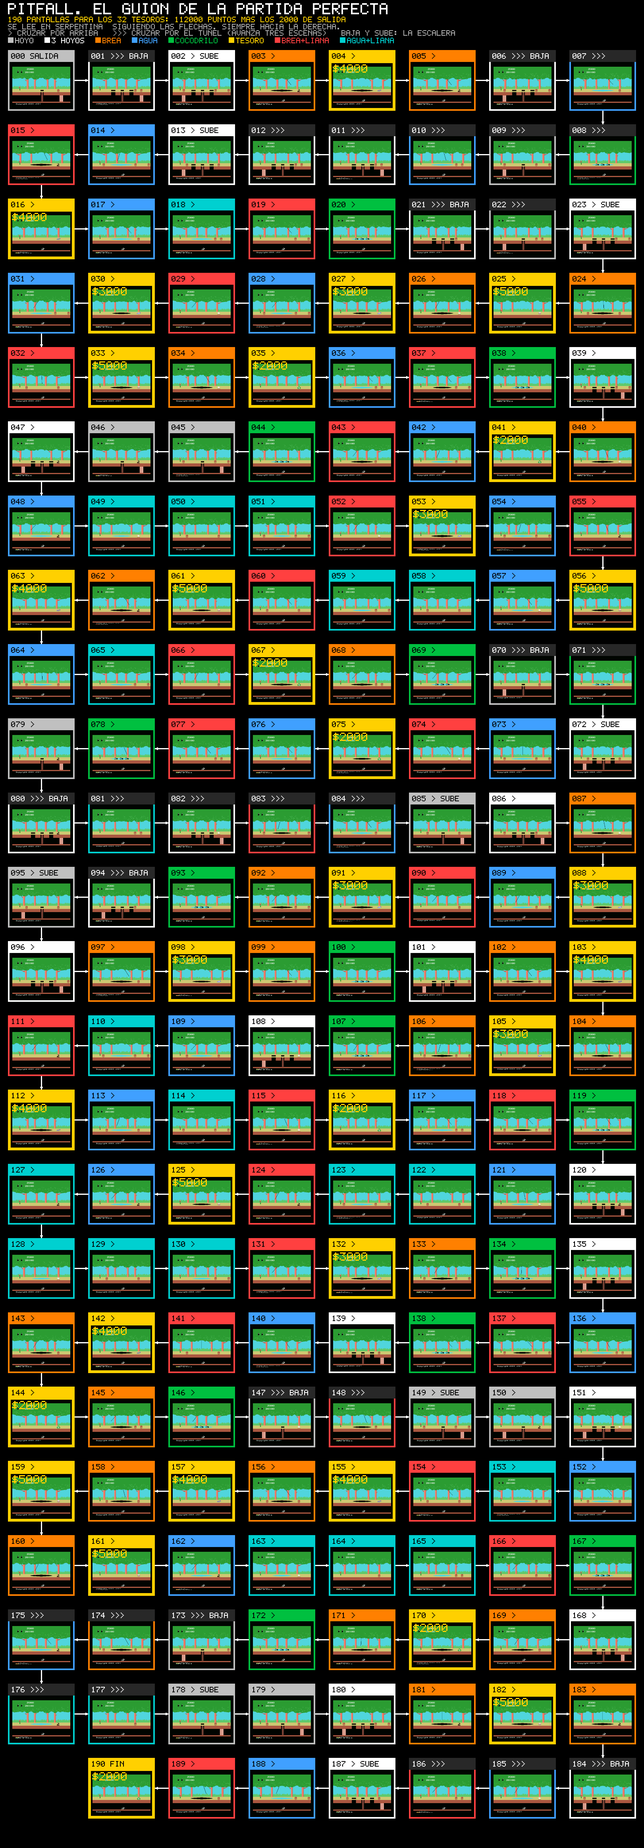
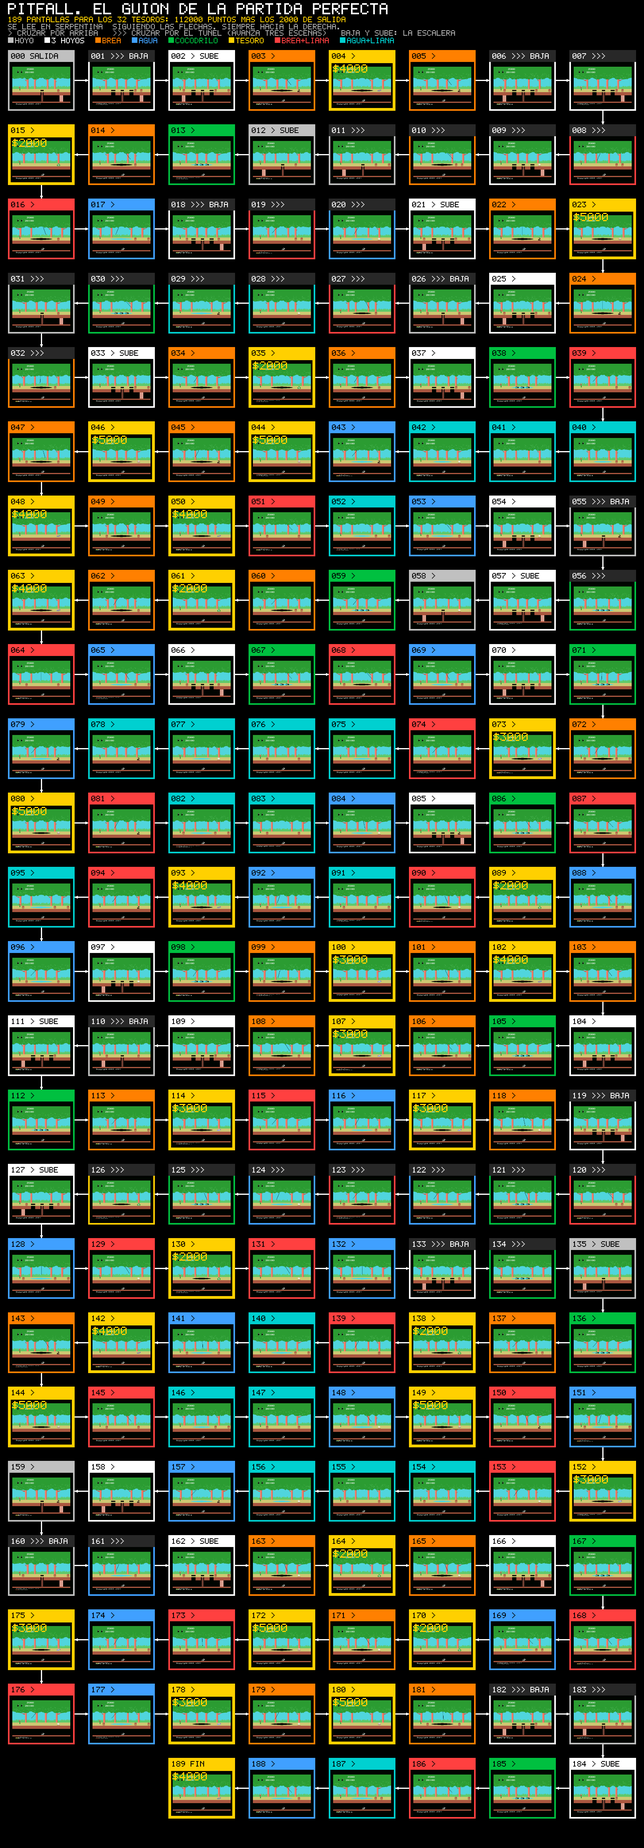
La ruta optima no era la optima: son 189 pantallas, con media vuelta
Lo pregunto el usuario -"seguro que hay que recorrer 190 como minimo?"- y la
respuesta es que casi: el minimo del modelo son 189, y la ruta publicada como
optima no lo era. El calculo de siempre recorria el anillo entero en un
sentido; lo que no probaba es DONDE dar la media vuelta, que en un anillo
equivale a elegir que hueco entre tesoros no se cruza nunca. Enumerando las 33
particiones -derecha hasta el tesoro i, vuelta, y el resto por la izquierda-
gana la del primer tesoro: 13 cruces a la derecha y 176 a la izquierda, 189 en
total contra los 190 de ir siempre al mismo lado.

Y la pregunta de fondo tiene respuesta con cota: no, no hay atajo milagroso.
Aunque el tunel avanza tres escenas por cruce, la cota teorica de ir TODO por
el tunel serian ~77 pantallas, y no se puede: hay que salir a la superficie en
los 32 tesoros, repartidos por todo el anillo, y las escaleras solo estan en
63 escenas. Eso empuja el minimo a 189, que a la velocidad del cartucho son
13,9 minutos de los 20:00 del reloj: el juego esta disenado para comerse el
reloj casi entero.

ruta_optima.py enumera ahora las particiones (y la comparacion sin subterraneo
usa tambien su mejor particion: 238, ahorro del 21 %). Regenerados el TSV, el
diagrama del guion y las cifras en las seis paginas que las publicaban, en los
dos idiomas; fuera la frase de los "cuatro retrocesos", que era de la ruta
vieja. 17 tests en verde, 124 enlaces sin roto.

Changed region(s): [[0.0, 0.0312, 0.9864, 0.997], [0.4007, 0.9658, 0.4316, 0.997]]

diff --git a/docs/index.html b/docs/index.html
@@ -88,13 +88,13 @@ audio{display:block;width:100%;max-width:640px;margin:.75rem 0 1.5rem}
   <p class="ficha">Activision · <b>1984</b> · A <b>16 KB</b> cartridge · MSX1 · <b>page 2</b> · Dump <b>4d899d62…</b></p>
 </header>
 <p class="ficha" style="border:1px solid var(--oro);padding:.8em 1em;margin:1.5em 0">
-<b>The optimal route is a calculation, not a recorded game.</b> The 190 screens of the walkthrough come from running Dijkstra over the world the cartridge generates, and they are counted in SCREENS CROSSED, not in time: running, jumping, dodging and the 20:00 clock are not in that count, and taking a ladder is counted as free. Everything else —the listing, the numbers and the map— comes from the binary and is reproducible with <code>make</code>.</p>
+<b>The optimal route is a calculation, not a recorded game.</b> The 189 screens of the walkthrough come from running Dijkstra over the world the cartridge generates, and they are counted in SCREENS CROSSED, not in time: running, jumping, dodging and the 20:00 clock are not in that count, and taking a ladder is counted as free. Everything else —the listing, the numbers and the map— comes from the binary and is reproducible with <code>make</code>.</p>
 <nav><a href="#numbers">The numbers</a><a href="#findings">What turned up</a><a href="#screens">The world</a><a href="GETTING-STARTED.html">Getting started</a><a href="THE-GAME.html">The game</a><a href="THE-CARTRIDGE.html">The cartridge</a><a href="THE-CODE.html">The code</a><a href="FINDINGS.html">Findings</a><a href="OPEN-QUESTIONS.html">Open questions</a><a href="es/" style="margin-left:auto;color:var(--oro)">En castellano</a></nav>
 <section id="numbers">
   <h2>The game in numbers</h2>
   <div class="cifras"><div class="cifra"><b>100%</b><span>of the binary explained</span></div><div class="cifra"><b>255</b><span>scenes in the world</span></div><div class="cifra"><b>32</b><span>treasures hidden</span></div><div class="cifra"><b>9,467</b><span>bytes of code</span></div><div class="cifra"><b>6,917</b><span>bytes of data</span></div><div class="cifra"><b>0</b><span>bytes unidentified</span></div></div>
 </section>
-<section id="findings"><h2>What turned up when we took it apart</h2><div class="hall"><h3>The world isn't stored, it's generated</h3><p>There is no map in the cartridge. The 255 screens come out of a single byte, 0xE222, a feedback shift register: the seed is 0xC4 and the feedback taps are bits 7, 5, 4 and 3. Leaving to the right, 0xB68F steps it forward; leaving to the left, 0xB69F —its exact inverse— steps it back.</p><p>Those eight bits carry the three decisions of every screen: two bits pick the scenery, three the kind of scene and three the variant. The ring is maximal —255 states, with 0x00 left outside it and used by the title screen— and the simulation agrees with the emulator on all 255.</p></div><div class="hall"><h3>The 32 treasures are exactly the 32 scenes of one kind</h3><p>Type 5 is the only one dispatched through table 0xAEA4, which holds four routines repeated two by two. Since the eight variants share out four scenes each, every class of treasure comes up eight times: 8+8+8+8 = 32, and not one more.</p><p>Each routine writes what its own is worth into 0xE188 —2, 3, 4 or 5, that is thousands of points— so the whole world holds 8·(2000+3000+4000+5000) = 112000 points. With the 2000 the score starts at, <b>114000: the ceiling of the game</b>.</p></div><div class="hall"><h3>A treasure already taken has its return address eaten</h3><p>What has been picked up is remembered in 32 bits, 0xE21D-0xE220: one byte per class of treasure and one bit per treasure. Before drawing one, 0xAAFF rotates its bit out into the carry.</p><p>And if it was set, there's no branch and no flag: it does <code>pop hl</code> and <code>ret</code>. It swallows its caller's return address, so the routine that was going to draw the treasure never runs at all. Saving one jump costs a lot to read and nothing to run.</p></div><div class="hall"><h3>The tunnel crosses the world three times as fast</h3><p>Changing screen is 0x9CBE's job: when the player's X reaches the right-hand edge it puts him back on the other side and steps the screen register on. But it steps on <b>one place or three</b> depending on bit 0 of 0xE2EB, which is what says whether you're up on the surface or down in the tunnel. The left-hand routine is symmetrical.</p><p>That's why the shortcut is worth so much, and why the route that collects all 32 treasures goes underground whenever it can: 190 screens using the tunnel against 238 never going down, 20 % fewer. You can only go down by a ladder, and the ladders are measured over the 255 captures: they're the 63 scenes of types 0 and 1, and not one more.</p></div><div class="hall"><h3>The vine isn't drawn anywhere</h3><p>There isn't a single picture of a vine in the cartridge. On every step, 0xA471 traces a sixteen-point straight line onto a bitmap at 0xE18A and sends it to video memory as a sprite pattern. The slope comes from the table at 0xA61A, indexed by the phase of the swing, which runs up and down between 1 and 0x20.</p></div><div class="hall"><h3>There isn't one written word in this cartridge</h3><p>Not a string, not an alphabet, not a hidden message. The font the game loads is ten digits, the colon and a blank: enough for the score and the clock, and not enough for a single letter.</p><p>Everything that looks like text —the title banner and the <b>Copyright 1982, 1984</b> at the foot— is drawing, cut into tiles, one per position. That's why searching the ROM for strings returns nothing readable, and why that one line at the foot, with its two dates, is the only thing the cartridge signs.</p></div></section>
+<section id="findings"><h2>What turned up when we took it apart</h2><div class="hall"><h3>The world isn't stored, it's generated</h3><p>There is no map in the cartridge. The 255 screens come out of a single byte, 0xE222, a feedback shift register: the seed is 0xC4 and the feedback taps are bits 7, 5, 4 and 3. Leaving to the right, 0xB68F steps it forward; leaving to the left, 0xB69F —its exact inverse— steps it back.</p><p>Those eight bits carry the three decisions of every screen: two bits pick the scenery, three the kind of scene and three the variant. The ring is maximal —255 states, with 0x00 left outside it and used by the title screen— and the simulation agrees with the emulator on all 255.</p></div><div class="hall"><h3>The 32 treasures are exactly the 32 scenes of one kind</h3><p>Type 5 is the only one dispatched through table 0xAEA4, which holds four routines repeated two by two. Since the eight variants share out four scenes each, every class of treasure comes up eight times: 8+8+8+8 = 32, and not one more.</p><p>Each routine writes what its own is worth into 0xE188 —2, 3, 4 or 5, that is thousands of points— so the whole world holds 8·(2000+3000+4000+5000) = 112000 points. With the 2000 the score starts at, <b>114000: the ceiling of the game</b>.</p></div><div class="hall"><h3>A treasure already taken has its return address eaten</h3><p>What has been picked up is remembered in 32 bits, 0xE21D-0xE220: one byte per class of treasure and one bit per treasure. Before drawing one, 0xAAFF rotates its bit out into the carry.</p><p>And if it was set, there's no branch and no flag: it does <code>pop hl</code> and <code>ret</code>. It swallows its caller's return address, so the routine that was going to draw the treasure never runs at all. Saving one jump costs a lot to read and nothing to run.</p></div><div class="hall"><h3>The tunnel crosses the world three times as fast</h3><p>Changing screen is 0x9CBE's job: when the player's X reaches the right-hand edge it puts him back on the other side and steps the screen register on. But it steps on <b>one place or three</b> depending on bit 0 of 0xE2EB, which is what says whether you're up on the surface or down in the tunnel. The left-hand routine is symmetrical.</p><p>That's why the shortcut is worth so much, and why the route that collects all 32 treasures goes underground whenever it can: 189 screens using the tunnel against 238 never going down, 21 % fewer. You can only go down by a ladder, and the ladders are measured over the 255 captures: they're the 63 scenes of types 0 and 1, and not one more.</p></div><div class="hall"><h3>The vine isn't drawn anywhere</h3><p>There isn't a single picture of a vine in the cartridge. On every step, 0xA471 traces a sixteen-point straight line onto a bitmap at 0xE18A and sends it to video memory as a sprite pattern. The slope comes from the table at 0xA61A, indexed by the phase of the swing, which runs up and down between 1 and 0x20.</p></div><div class="hall"><h3>There isn't one written word in this cartridge</h3><p>Not a string, not an alphabet, not a hidden message. The font the game loads is ten digits, the colon and a blank: enough for the score and the clock, and not enough for a single letter.</p><p>Everything that looks like text —the title banner and the <b>Copyright 1982, 1984</b> at the foot— is drawing, cut into tiles, one per position. That's why searching the ROM for strings returns nothing readable, and why that one line at the foot, with its two dates, is the only thing the cartridge signs.</p></div></section>
 <section id="screens">
   <h2>The eight kinds of scene</h2>
   <p class="n">These eight are screen captures, but not of anyone playing: the emulator is told what to put in the screen register and asked for a photograph of each scene, so all 255 come out one after another with no repeats. Here is one of each kind, picked by crossing the register value with the table that comes out of the cartridge. Get that reading wrong and what you would see under each caption would be something else.</p>

diff --git a/docs/es/index.html b/docs/es/index.html
@@ -88,13 +88,13 @@ audio{display:block;width:100%;max-width:640px;margin:.75rem 0 1.5rem}
   <p class="ficha">Activision · <b>1984</b> · Cartucho de <b>16 KB</b> · MSX1 · <b>página 2</b> · Volcado <b>4d899d62…</b></p>
 </header>
 <p class="ficha" style="border:1px solid var(--oro);padding:.8em 1em;margin:1.5em 0">
-<b>La ruta óptima es un cálculo, no una partida grabada.</b> Las 190 pantallas del guion salen de aplicar Dijkstra sobre el mundo que genera el cartucho, y se cuentan en PANTALLAS CRUZADAS, no en tiempo: correr, saltar, esquivar y el reloj de 20:00 no entran en esa cuenta, y bajar una escalera se cuenta gratis. Todo lo demás —el listado, las cifras y el mapa— sale del binario y se reproduce con <code>make</code>.</p>
+<b>La ruta óptima es un cálculo, no una partida grabada.</b> Las 189 pantallas del guion salen de aplicar Dijkstra sobre el mundo que genera el cartucho, y se cuentan en PANTALLAS CRUZADAS, no en tiempo: correr, saltar, esquivar y el reloj de 20:00 no entran en esa cuenta, y bajar una escalera se cuenta gratis. Todo lo demás —el listado, las cifras y el mapa— sale del binario y se reproduce con <code>make</code>.</p>
 <nav><a href="#numbers">Las cifras</a><a href="#findings">Hallazgos</a><a href="#screens">El mundo</a><a href="EMPEZAR.html">Empezar</a><a href="EL-JUEGO.html">El juego</a><a href="EL-CARTUCHO.html">El cartucho</a><a href="EL-CODIGO.html">El código</a><a href="HALLAZGOS.html">Hallazgos</a><a href="PREGUNTAS-ABIERTAS.html">Preguntas abiertas</a><a href="../" style="margin-left:auto;color:var(--oro)">In English</a></nav>
 <section id="numbers">
   <h2>El juego en cifras</h2>
   <div class="cifras"><div class="cifra"><b>100 %</b><span>del binario explicado</span></div><div class="cifra"><b>255</b><span>escenas del mundo</span></div><div class="cifra"><b>32</b><span>tesoros escondidos</span></div><div class="cifra"><b>9.467</b><span>bytes de código</span></div><div class="cifra"><b>6.917</b><span>bytes de datos</span></div><div class="cifra"><b>0</b><span>bytes sin identificar</span></div></div>
 </section>
-<section id="findings"><h2>Lo que apareció al desmontarlo</h2><div class="hall"><h3>El mundo no está guardado: se genera</h3><p>No hay un mapa en el cartucho. Las 255 pantallas salen de un solo byte, 0xE222, que es un registro de desplazamiento realimentado: la semilla es 0xC4 y la realimentación, los bits 7, 5, 4 y 3. Al salir por la derecha lo avanza 0xB68F y al salir por la izquierda lo retrocede 0xB69F, que es su inversa exacta.</p><p>De esos ocho bits salen las tres decisiones de cada pantalla: dos bits eligen el decorado, tres el tipo de escena y tres la variante. El anillo es máximo —255 estados, el 0x00 se queda fuera y es el que usa la pantalla del título— y la simulación coincide con el emulador en las 255.</p></div><div class="hall"><h3>Los 32 tesoros son exactamente las 32 escenas de un tipo</h3><p>El tipo 5 es el único que despacha por la tabla 0xAEA4, que lleva cuatro rutinas repetidas de dos en dos. Como las ocho variantes se reparten a cuatro escenas cada una, sale un tesoro de cada clase ocho veces: 8+8+8+8 = 32, y ni uno más.</p><p>Cada rutina escribe en 0xE188 lo que vale el suyo —2, 3, 4 o 5, o sea miles de puntos—, así que el mundo entero guarda 8·(2000+3000+4000+5000) = 112000 puntos. Con los 2000 con los que arranca el marcador, <b>114000: el techo del juego</b>.</p></div><div class="hall"><h3>Al tesoro ya cogido se le come la dirección de retorno</h3><p>Lo recogido se recuerda en 32 bits, 0xE21D-0xE220: un byte por clase de tesoro y un bit por tesoro. Antes de pintar uno, 0xAAFF rota su bit hasta el acarreo.</p><p>Y si estaba a uno no salta ni pone una bandera: hace <code>pop hl</code> y <code>ret</code>. Se traga la dirección de retorno del que le llamó, así que la rutina que pintaba el tesoro no llega a ejecutarse nunca. Ahorrarse un salto sale caro de leer y barato de correr.</p></div><div class="hall"><h3>El subterráneo recorre el mundo al triple</h3><p>El cambio de pantalla lo hace 0x9CBE: cuando la X del jugador llega al borde derecho lo reposiciona al otro lado y avanza el registro de pantalla. Pero avanza <b>uno o tres pasos</b> según el bit 0 de 0xE2EB, que es el que dice si se va por arriba o por el túnel. La rutina de la izquierda es simétrica.</p><p>Por eso el atajo vale oro, y por eso la ruta que se lleva los 32 tesoros baja siempre que puede: 190 pantallas usando el túnel contra 238 sin bajar nunca, un 20 % menos. Bajar sólo se puede por una escalera, y las escaleras están medidas sobre las 255 capturas: son las 63 escenas de tipo 0 y 1, y ni una más.</p></div><div class="hall"><h3>La liana no está dibujada en ninguna parte</h3><p>No hay un solo dibujo de liana en el cartucho. En cada paso, 0xA471 traza una recta de dieciséis puntos sobre un mapa de bits en 0xE18A y la manda a la memoria de vídeo como patrón de sprite. La inclinación sale de la tabla de 0xA61A, indexada por la fase del balanceo, que va y viene entre 1 y 0x20.</p></div><div class="hall"><h3>En este cartucho no hay ni una palabra escrita</h3><p>Ni una cadena, ni un alfabeto, ni un mensaje escondido. La fuente que carga el juego son diez dígitos, los dos puntos y el blanco: con eso se escriben el marcador y el reloj, y no da para una letra.</p><p>Todo lo que parece texto —el rótulo de la presentación y el <b>Copyright 1982, 1984</b> del pie— son dibujos partidos en casillas, una por posición. Por eso buscar cadenas en la ROM no devuelve nada legible, y por eso esa línea del pie, con sus dos fechas, es lo único que el cartucho firma.</p></div></section>
+<section id="findings"><h2>Lo que apareció al desmontarlo</h2><div class="hall"><h3>El mundo no está guardado: se genera</h3><p>No hay un mapa en el cartucho. Las 255 pantallas salen de un solo byte, 0xE222, que es un registro de desplazamiento realimentado: la semilla es 0xC4 y la realimentación, los bits 7, 5, 4 y 3. Al salir por la derecha lo avanza 0xB68F y al salir por la izquierda lo retrocede 0xB69F, que es su inversa exacta.</p><p>De esos ocho bits salen las tres decisiones de cada pantalla: dos bits eligen el decorado, tres el tipo de escena y tres la variante. El anillo es máximo —255 estados, el 0x00 se queda fuera y es el que usa la pantalla del título— y la simulación coincide con el emulador en las 255.</p></div><div class="hall"><h3>Los 32 tesoros son exactamente las 32 escenas de un tipo</h3><p>El tipo 5 es el único que despacha por la tabla 0xAEA4, que lleva cuatro rutinas repetidas de dos en dos. Como las ocho variantes se reparten a cuatro escenas cada una, sale un tesoro de cada clase ocho veces: 8+8+8+8 = 32, y ni uno más.</p><p>Cada rutina escribe en 0xE188 lo que vale el suyo —2, 3, 4 o 5, o sea miles de puntos—, así que el mundo entero guarda 8·(2000+3000+4000+5000) = 112000 puntos. Con los 2000 con los que arranca el marcador, <b>114000: el techo del juego</b>.</p></div><div class="hall"><h3>Al tesoro ya cogido se le come la dirección de retorno</h3><p>Lo recogido se recuerda en 32 bits, 0xE21D-0xE220: un byte por clase de tesoro y un bit por tesoro. Antes de pintar uno, 0xAAFF rota su bit hasta el acarreo.</p><p>Y si estaba a uno no salta ni pone una bandera: hace <code>pop hl</code> y <code>ret</code>. Se traga la dirección de retorno del que le llamó, así que la rutina que pintaba el tesoro no llega a ejecutarse nunca. Ahorrarse un salto sale caro de leer y barato de correr.</p></div><div class="hall"><h3>El subterráneo recorre el mundo al triple</h3><p>El cambio de pantalla lo hace 0x9CBE: cuando la X del jugador llega al borde derecho lo reposiciona al otro lado y avanza el registro de pantalla. Pero avanza <b>uno o tres pasos</b> según el bit 0 de 0xE2EB, que es el que dice si se va por arriba o por el túnel. La rutina de la izquierda es simétrica.</p><p>Por eso el atajo vale oro, y por eso la ruta que se lleva los 32 tesoros baja siempre que puede: 189 pantallas usando el túnel contra 238 sin bajar nunca, un 21 % menos. Bajar sólo se puede por una escalera, y las escaleras están medidas sobre las 255 capturas: son las 63 escenas de tipo 0 y 1, y ni una más.</p></div><div class="hall"><h3>La liana no está dibujada en ninguna parte</h3><p>No hay un solo dibujo de liana en el cartucho. En cada paso, 0xA471 traza una recta de dieciséis puntos sobre un mapa de bits en 0xE18A y la manda a la memoria de vídeo como patrón de sprite. La inclinación sale de la tabla de 0xA61A, indexada por la fase del balanceo, que va y viene entre 1 y 0x20.</p></div><div class="hall"><h3>En este cartucho no hay ni una palabra escrita</h3><p>Ni una cadena, ni un alfabeto, ni un mensaje escondido. La fuente que carga el juego son diez dígitos, los dos puntos y el blanco: con eso se escriben el marcador y el reloj, y no da para una letra.</p><p>Todo lo que parece texto —el rótulo de la presentación y el <b>Copyright 1982, 1984</b> del pie— son dibujos partidos en casillas, una por posición. Por eso buscar cadenas en la ROM no devuelve nada legible, y por eso esa línea del pie, con sus dos fechas, es lo único que el cartucho firma.</p></div></section>
 <section id="screens">
   <h2>Los ocho tipos de escena</h2>
   <p class="n">Estas ocho sí son capturas, pero no de jugar: al emulador se le dicta el valor del registro de pantalla y se le pide una foto de cada escena, así que las 255 salen seguidas y sin repetir. Aquí hay una de cada tipo, elegida cruzando el valor del registro con la tabla que sale del cartucho. Si esa lectura estuviera mal, lo que se vería debajo de cada pie sería otra cosa.</p>

diff --git a/docs/OPEN-QUESTIONS.html b/docs/OPEN-QUESTIONS.html
@@ -91,10 +91,10 @@ audio{display:block;width:100%;max-width:640px;margin:.75rem 0 1.5rem}
 <h2 id="no-winning-condition-turns-up">No winning condition turns up</h2>
 <p>The only two ways out of a game there are in the code are running out of lives (0x8975) and running out of clock (0x9DEA). Both end up in the same place: the closing sequence at 0x9E0E.</p>
 <p>That collecting all 32 treasures does anything is <b>neither proved nor ruled out</b>. What can be stated is what was looked for and isn&#x27;t there: in the traced code there there is no comparison against 32 that has anything to do with the treasures —the only one there is compares the phase of the vine&#x27;s swing, at 0xA5F0— and apart from the 32 bits of treasures taken (0xE21D-0xE220) no counter of how many you are carrying turns up. If there is an ending for having collected them all, it doesn&#x27;t come from there.</p>
-<h2 id="the-190-screen-route-is-a-calculation-not-a-game">The 190-screen route is a calculation, not a game</h2>
+<h2 id="the-189-screen-route-is-a-calculation-not-a-game">The 189-screen route is a calculation, not a game</h2>
 <p>The number is soundly made —it comes from walking the ring of 255 scenes with the cartridge&#x27;s own screen-change rules, counting the tunnel shortcut— but it measures <b>screens crossed</b>, and nothing else.</p>
 <p>What is not in the count: jumping, waiting for a log to go by, and going down or up a ladder, which are counted as free. It is not a recorded game.</p>
-<p>Does it fit the clock, though? That sum can be done with the cartridge&#x27;s own numbers. The player walks at 200/256 of a pixel per frame (0x88ED) and a screen runs from the entry X (0x19) to the border (0xE7): 206 pixels, <b>264 frames, 4.4 seconds</b> at 60 Hz. The 190 crossings add up to 50,099 frames —<b>13.9 minutes of game time</b>— and the 20:00 clock is 72,000: the route spends 70 % of the clock just walking and leaves about six minutes for everything else. It is still the model&#x27;s arithmetic, not a game; but the model fits inside the clock.</p>
+<p>Does it fit the clock, though? That sum can be done with the cartridge&#x27;s own numbers. The player walks at 200/256 of a pixel per frame (0x88ED) and a screen runs from the entry X (0x19) to the border (0xE7): 206 pixels, <b>264 frames, 4.4 seconds</b> at 60 Hz. The 189 crossings add up to 49,896 frames —<b>13.9 minutes of game time</b>— and the 20:00 clock is 72,000: the route spends 70 % of the clock just walking and leaves about six minutes for everything else. It is still the model&#x27;s arithmetic, not a game; but the model fits inside the clock.</p>
 <p>It still needs running in the emulator to check two things: that the 32 treasures turn up and that the score reaches 114000.</p>
 <h2 id="which-creature-is-which-and-which-obstacle-is-which">Which creature is which, and which obstacle is which</h2>
 <p>Three routines (0xAA74, 0xAAB7 and 0xAB85) paint a 3x2-cell drawing in the same gap on the screen, each with its own sprite patterns and its own collision box —class 6 for the first two, which kill, and class 8 for the third, which is a treasure—. What is inside is known in full. <b>Which is which to look at, no.</b></p>

diff --git a/docs/es/PREGUNTAS-ABIERTAS.html b/docs/es/PREGUNTAS-ABIERTAS.html
@@ -91,10 +91,10 @@ audio{display:block;width:100%;max-width:640px;margin:.75rem 0 1.5rem}
 <h2 id="no-aparece-condicion-de-victoria">No aparece condición de victoria</h2>
 <p>Las dos únicas salidas de partida que hay en el código son quedarse sin vidas (0x8975) y quedarse sin reloj (0x9DEA). Las dos acaban en el mismo sitio: la secuencia final de 0x9E0E.</p>
 <p>Que llevarse los 32 tesoros haga algo <b>no está demostrado ni descartado</b>. Lo que se puede afirmar es lo que se ha buscado y no está: en el código trazado no no hay ninguna comparación contra 32 que tenga que ver con los tesoros —la única que hay compara la fase del balanceo de la liana, en 0xA5F0—, y aparte de los 32 bits de tesoros cogidos (0xE21D-0xE220) no aparece ningún contador de cuántos llevas. Si hay final por haberlos recogido todos, no sale de ahí.</p>
-<h2 id="la-ruta-de-190-pantallas-es-un-calculo-no-una-partida">La ruta de 190 pantallas es un cálculo, no una partida</h2>
+<h2 id="la-ruta-de-189-pantallas-es-un-calculo-no-una-partida">La ruta de 189 pantallas es un cálculo, no una partida</h2>
 <p>El número está bien hecho —sale de recorrer el anillo de 255 escenas con las reglas de cambio de pantalla del propio cartucho, contando el atajo del subterráneo— pero mide <b>pantallas cruzadas</b>, y nada más.</p>
 <p>Lo que no entra en la cuenta: saltar, esperar a que un tronco pase, y bajar o subir una escalera, que se cuentan como gratis. No es una partida grabada.</p>
-<p>¿Y cabe en el reloj? Esa cuenta sí se puede hacer con los números del propio cartucho. El muñeco anda a 200/256 de píxel por cuadro (0x88ED) y una pantalla va de la X de entrada (0x19) al borde (0xE7): 206 píxeles, <b>264 cuadros, 4,4 segundos</b> a 60 Hz. Los 190 cruces suman 50.099 cuadros —<b>13,9 minutos de juego</b>— y el reloj de 20:00 son 72.000: la ruta gasta el 70 % del reloj solo en andar y deja unos seis minutos para todo lo demás. Sigue siendo aritmética del modelo, no una partida; pero el modelo cabe en el reloj.</p>
+<p>¿Y cabe en el reloj? Esa cuenta sí se puede hacer con los números del propio cartucho. El muñeco anda a 200/256 de píxel por cuadro (0x88ED) y una pantalla va de la X de entrada (0x19) al borde (0xE7): 206 píxeles, <b>264 cuadros, 4,4 segundos</b> a 60 Hz. Los 189 cruces suman 49.896 cuadros —<b>13,9 minutos de juego</b>— y el reloj de 20:00 son 72.000: la ruta gasta el 70 % del reloj solo en andar y deja unos seis minutos para todo lo demás. Sigue siendo aritmética del modelo, no una partida; pero el modelo cabe en el reloj.</p>
 <p>Falta correrla en el emulador y comprobar dos cosas: que aparecen los 32 tesoros y que el marcador llega a 114000.</p>
 <h2 id="que-es-cada-bicho-y-que-es-cada-estorbo">Qué es cada bicho, y qué es cada estorbo</h2>
 <p>Tres rutinas (0xAA74, 0xAAB7 y 0xAB85) pintan un dibujo de 3x2 celdas en el mismo hueco de la pantalla, cada una con sus patrones de sprite y su caja de colisión —de clase 6 las dos primeras, que matan, y de clase 8 la tercera, que es tesoro—. Lo que está por dentro se sabe entero. <b>Cuál es cuál mirándolo, no.</b></p>

diff --git a/docs/FINDINGS.html b/docs/FINDINGS.html
@@ -105,7 +105,7 @@ audio{display:block;width:100%;max-width:640px;margin:.75rem 0 1.5rem}
 <p>And the «this one&#x27;s already been taken» check is solved in a way you don&#x27;t see first time round. 0xAAFF rotates the bit out into the carry; if it was clear it returns normally and whoever called paints the treasure, but if it was set it does <code>pop hl</code> and <code>ret</code> (0xAB19): <b>it eats its own return address</b>, jumps over the code that would paint the treasure and hands control back two levels up.</p>
 <h2 id="the-tunnel-crosses-the-world-three-times-as-fast">The tunnel crosses the world three times as fast</h2>
 <p>At 0x9CD2, on changing screen, bit 0 of 0xE2EB —the one that says whether you are on the surface— is looked at and the register is turned <b>one step or three</b>. Down below, three scenes at once.</p>
-<p>That makes the tunnel a real shortcut, and it can be measured: the shortest route that collects all 32 treasures is <b>190 screens</b> crossed, against 238 never going down. 20 % fewer. And they are not 190 to the right: 186 are, and in four of them the calculation backtracks to chain two treasures together.</p>
+<p>That makes the tunnel a real shortcut, and it can be measured: the shortest route that collects all 32 treasures is <b>189 screens</b> crossed, against 238 never going down. 21 % fewer. And the route doesn&#x27;t all go one way: it goes right to the first treasure, turns round, and sweeps the other 31 leftwards —13 crossings to the right and 176 to the left—, which is how it never crosses the ring&#x27;s most expensive gap. Always going right would cost 190.</p>
 <p>Going down needs a ladder, and the ladders were counted over the 255 captures of the walk. The result is clean in an unusual way: it is <b>bimodal, without a single in-between case</b>. Either a scene has 3 vertical stripes —which is scenery— or it has 8, which is a ladder. The ones with 8 are 63, and they are exactly the 63 scenes of kinds 0 and 1, which is what reading the code already said. Two methods with nothing in common giving the same number.</p>
 <p>The whole ring is <a href="imagenes/mapa-del-mundo.png">the map of the world</a>, the 255 scenes in a labelled grid, and the route is <a href="imagenes/guion-de-la-partida-perfecta.png">the walkthrough of the perfect game</a>, one cell per screen crossed.</p>
 <h2 id="there-isn-t-one-letter-in-this-cartridge">There isn&#x27;t one letter in this cartridge</h2>

diff --git a/docs/es/HALLAZGOS.html b/docs/es/HALLAZGOS.html
@@ -105,7 +105,7 @@ audio{display:block;width:100%;max-width:640px;margin:.75rem 0 1.5rem}
 <p>Y la comprobación de «este ya está cogido» se resuelve de una manera que no se ve a la primera. 0xAAFF rota el bit hasta el acarreo; si estaba a cero vuelve normal y quien la llamó pinta el tesoro, pero si estaba a uno hace <code>pop hl</code> y <code>ret</code> (0xAB19): <b>se come su propia dirección de retorno</b>, salta por encima del código que pintaría el tesoro y devuelve el control dos niveles más arriba.</p>
 <h2 id="el-subterraneo-recorre-el-mundo-al-triple">El subterráneo recorre el mundo al triple</h2>
 <p>En 0x9CD2, al cambiar de pantalla, se mira el bit 0 de 0xE2EB —que es el que dice si estás en la superficie— y el registro se hace girar <b>un paso o tres</b>. Por debajo, tres escenas de golpe.</p>
-<p>Eso convierte al subterráneo en un atajo de verdad, y se puede medir: la ruta más corta que se lleva los 32 tesoros son <b>190 pantallas</b> cruzadas, contra 238 sin bajar nunca. Un 20 % menos. Y no son 190 a la derecha: 186 lo son, y en cuatro el cálculo retrocede para encadenar dos tesoros.</p>
+<p>Eso convierte al subterráneo en un atajo de verdad, y se puede medir: la ruta más corta que se lleva los 32 tesoros son <b>189 pantallas</b> cruzadas, contra 238 sin bajar nunca. Un 21 % menos. Y la ruta no va toda hacia el mismo lado: va a la derecha hasta el primer tesoro, da media vuelta, y barre los otros 31 por la izquierda —13 cruces a la derecha y 176 a la izquierda—, que es como se ahorra cruzar el hueco más caro del anillo. Ir siempre a la derecha costaría 190.</p>
 <p>Para bajar hace falta una escalera, y las escaleras se contaron sobre las 255 capturas del recorrido. El resultado es limpio de una manera poco habitual: es <b>bimodal, sin un solo caso intermedio</b>. O una escena tiene 3 rayas verticales —que es decorado— o tiene 8, que es escalera. Las de 8 son 63, y son exactamente las 63 escenas de tipos 0 y 1, que es lo que la lectura del código ya decía. Dos métodos que no comparten nada dando el mismo número.</p>
 <p>El anillo entero es <a href="../imagenes/mapa-del-mundo.png">el mapa del mundo</a>, las 255 escenas en rejilla y etiquetadas, y la ruta es <a href="../imagenes/guion-de-la-partida-perfecta.png">el guion de la partida perfecta</a>, una casilla por pantalla cruzada.</p>
 <h2 id="en-este-cartucho-no-hay-ni-una-letra">En este cartucho no hay ni una letra</h2>

diff --git a/docs/es/EL-JUEGO.html b/docs/es/EL-JUEGO.html
@@ -104,7 +104,7 @@ audio{display:block;width:100%;max-width:640px;margin:.75rem 0 1.5rem}
 <h2 id="el-subterraneo-que-es-un-atajo-de-verdad">El subterráneo, que es un atajo de verdad</h2>
 <p>Por los hoyos se baja al subterráneo, y también por la escalera que llevan las escenas de tipos 0 y 1 —63 de las 255—. La escalera no tiene caja de colisión: se comprueba a mano que la escena sea de esas y que la X del jugador caiga entre 0x70 y 0x88 (0x83D4). Esa ventana es <b>más ancha que el dibujo</b>: el mástil que pinta el guion de celdas de 0x8F06 es la columna 16, o sea de 0x80 a 0x87, así que se baja también desde un poco antes de pisarlo.</p>
 <p>Y ahí abajo el mundo corre al triple. El bit 0 de 0xE2EB dice si estás en la superficie —0xACE4 lo enciende al empezar la partida, 0x8751 lo apaga al caer por un hoyo y 0x849A lo vuelve a encender al salir—, y cuando está apagado, cruzar una pantalla hace girar el registro <b>tres pasos en vez de uno</b> (0x9CD2). Tres escenas de golpe.</p>
-<p>Sobre esas dos reglas se puede calcular la ruta más corta que se lleva los 32 tesoros: <b>190 pantallas</b> cruzadas, contra 238 si no se baja nunca: el atajo ahorra un 20 %. No son 190 a la derecha; 186 lo son, y en cuatro el cálculo retrocede para encadenar dos tesoros.</p>
+<p>Sobre esas dos reglas se puede calcular la ruta más corta que se lleva los 32 tesoros: <b>189 pantallas</b> cruzadas, contra 238 si no se baja nunca: el atajo ahorra un 21 %. Y no van todas hacia el mismo lado: derecha hasta el primer tesoro, media vuelta, y los otros 31 barridos por la izquierda.</p>
 <p>Es un cálculo, no una partida: el coste está medido en pantallas cruzadas, la escalera se cuenta como gratis, y el reloj no entra en la cuenta.</p>
 <h2 id="lo-que-te-cuesta-puntos-y-lo-que-te-cuesta-una-vida">Lo que te cuesta puntos, y lo que te cuesta una vida</h2>
 <p>De las diez clases de caja solo cuatro cuestan una vida: la 3 y la 4 por 0x83B9, y la 6 y la 9 por 0x8226, que son los dos únicos sitios del cartucho desde los que se llama a quitar una vida. Esto es lo que hacen las demás:</p>

diff --git a/docs/THE-GAME.html b/docs/THE-GAME.html
@@ -104,7 +104,7 @@ audio{display:block;width:100%;max-width:640px;margin:.75rem 0 1.5rem}
 <h2 id="the-tunnel-which-is-a-real-shortcut">The tunnel, which is a real shortcut</h2>
 <p>The pits take you down to the tunnel, and so does the ladder that the scenes of kinds 0 and 1 carry —63 of the 255—. The ladder has no collision box: it is checked by hand that the scene is one of those and that the player&#x27;s X falls between 0x70 and 0x88 (0x83D4). That window is <b>wider than the drawing</b>: the mast the cell script at 0x8F06 paints is column 16, that is 0x80 to 0x87, so you can also go down from a little before standing on it.</p>
 <p>And down there the world runs at three times the rate. Bit 0 of 0xE2EB says whether you are on the surface —0xACE4 sets it when the game starts, 0x8751 clears it when you fall down a pit and 0x849A sets it again on the way out— and when it is clear, crossing a screen turns the register <b>three steps instead of one</b> (0x9CD2). Three scenes at once.</p>
-<p>On top of those two rules you can work out the shortest route that collects all 32 treasures: <b>190 screens</b> crossed, against 238 if you never go down: the shortcut saves 20 %. They are not 190 to the right; 186 are, and in four of them the calculation backtracks to chain two treasures together.</p>
+<p>On top of those two rules you can work out the shortest route that collects all 32 treasures: <b>189 screens</b> crossed, against 238 if you never go down: the shortcut saves 21 %. And they don&#x27;t all go one way: right to the first treasure, then round and the other 31 swept leftwards.</p>
 <p>It is a calculation, not a game played: the cost is measured in screens crossed, the ladder is counted as free, and the clock is not in the count.</p>
 <h2 id="what-costs-you-points-and-what-costs-you-a-life">What costs you points, and what costs you a life</h2>
 <p>Of the ten classes of box only four cost a life: 3 and 4 through 0x83B9, and 6 and 9 through 0x8226, which are the only two places in the cartridge that call for a life to be taken. This is what the rest of them do:</p>

diff --git a/tools/ruta_optima.py b/tools/ruta_optima.py
@@ -90,36 +90,55 @@ def main():
     print("Tesoros: %d, valor total %d puntos" % (len(tesoros), sum(v for _, v in tesoros)))
     print("Escaleras: %d escenas\n" % sum(escalera))
 
-    # La ruta se calcula en los dos sentidos y gana la mas corta. En cada uno,
-    # los tesoros se recogen en el orden en que el anillo los va poniendo por
-    # delante, y entre dos tesoros se toma el camino minimo -que es donde el
-    # subterraneo hace su trabajo-.
-    mejor = None
-    for sentido, nombre in ((1, "derecha"), (-1, "izquierda")):
-        orden = sorted(tesoros, key=lambda t: (t[0] * sentido) % N)
-        total, tramos, actual = 0, [], (0, ARRIBA)
-        for pos, valor in orden:
-            dist, previo = dijkstra(actual, escalera)
-            destino = (pos, ARRIBA)
-            total += dist[destino]
-            tramos.append((camino(previo, actual, destino), pos, valor))
-            actual = destino
-        print("  hacia la %-10s %4d pantallas cruzadas" % (nombre, total))
-        if mejor is None or total < mejor[0]:
-            mejor = (total, nombre, tramos)
+    # En un anillo, la ruta que visita todos los tesoros los recorre en su
+    # orden; lo unico que queda por decidir es QUE HUECO no se cruza nunca.
+    # Eso es exactamente enumerar las particiones "a la derecha hasta el tesoro
+    # i, media vuelta, y el resto barrido por la izquierda" (con las dos puntas
+    # como casos: corte=32 es todo a la derecha y corte=0 todo a la izquierda).
+    # Entre tesoro y tesoro, el camino minimo lo da Dijkstra, que es donde el
+    # subterraneo hace su trabajo. Probarlas todas costo UNA pantalla: la ruta
+    # todo-a-la-derecha daba 190, y la de "derecha hasta el primero y vuelta"
+    # da 189, que es el minimo del modelo.
+    posiciones = [t[0] for t in sorted(tesoros)]
+    valor_de = dict(tesoros)
 
-    total, nombre, tramos = mejor
-    # La misma ruta sin bajar nunca al subterraneo, para tener con que comparar.
-    sin_tunel = [False] * N
-    sentido = 1 if nombre == "derecha" else -1
-    orden = sorted(tesoros, key=lambda t: (t[0] * sentido) % N)
-    solo_arriba, actual = 0, (0, ARRIBA)
-    for pos, _valor in orden:
-        d, _ = dijkstra(actual, sin_tunel)
-        solo_arriba += d[(pos, ARRIBA)]
-        actual = (pos, ARRIBA)
+    def mejor_particion(escalera):
+        cache = {}
 
-    print("\n  GANA: hacia la %s, %d pantallas" % (nombre, total))
+        def desde(a):
+            if a not in cache:
+                cache[a] = dijkstra((a, ARRIBA), escalera)
+            return cache[a]
+
+        mejor = None
+        for corte in range(len(posiciones) + 1):
+            orden = posiciones[:corte] + list(reversed(posiciones[corte:]))
+            total, actual = 0, 0
+            for p in orden:
+                total += desde(actual)[0][(p, ARRIBA)]
+                actual = p
+            if mejor is None or total < mejor[0]:
+                mejor = (total, corte, orden, desde)
+        return mejor
+
+    total, corte, orden, desde = mejor_particion(escalera)
+    tramos, actual = [], (0, ARRIBA)
+    for pos in orden:
+        dist, previo = desde(actual[0])
+        destino = (pos, ARRIBA)
+        tramos.append((camino(previo, actual, destino), pos, valor_de[pos]))
+        actual = destino
+    nombre = ("derecha" if corte == len(posiciones) else
+              "izquierda" if corte == 0 else
+              "derecha hasta el paso %d y vuelta" % orden[corte - 1])
+
+    # La mejor ruta posible SIN bajar nunca al subterraneo, para comparar.
+    solo_arriba = mejor_particion([False] * N)[0]
+
+    todo_derecha = sum(desde(a)[0][(b, ARRIBA)] for a, b in
+                       zip([0] + posiciones[:-1], posiciones))
+    print("\n  GANA: %s, %d pantallas (todo a la derecha serian %d)"
+          % (nombre, total, todo_derecha))
     print("  Sin usar el subterraneo serian %d: el atajo ahorra %d (%d %%)"
           % (solo_arriba, solo_arriba - total,
              round(100 * (solo_arriba - total) / solo_arriba)))

diff --git a/tools/make_web.py b/tools/make_web.py
@@ -46,7 +46,7 @@ TXT = {
     "es": dict(
         titulo="Pitfall! (1984) — desensamblado comentado",
         aviso="<b>La ruta óptima es un cálculo, no una partida grabada.</b> "
-              "Las 190 pantallas del guion salen de aplicar Dijkstra sobre el "
+              "Las 189 pantallas del guion salen de aplicar Dijkstra sobre el "
               "mundo que genera el cartucho, y se cuentan en PANTALLAS "
               "CRUZADAS, no en tiempo: correr, saltar, esquivar y el reloj de "
               "20:00 no entran en esa cuenta, y bajar una escalera se cuenta "
@@ -90,7 +90,7 @@ TXT = {
     "en": dict(
         titulo="Pitfall! (1984) — a commented disassembly",
         aviso="<b>The optimal route is a calculation, not a recorded game.</b> "
-              "The 190 screens of the walkthrough come from running Dijkstra "
+              "The 189 screens of the walkthrough come from running Dijkstra "
               "over the world the cartridge generates, and they are counted in "
               "SCREENS CROSSED, not in time: running, jumping, dodging and the "
               "20:00 clock are not in that count, and taking a ladder is "
@@ -172,8 +172,8 @@ HALLAZGOS = {
          "bit 0 de 0xE2EB, que es el que dice si se va por arriba o por el "
          "túnel. La rutina de la izquierda es simétrica.</p>"
          "<p>Por eso el atajo vale oro, y por eso la ruta que se lleva los 32 "
-         "tesoros baja siempre que puede: 190 pantallas usando el túnel contra "
-         "238 sin bajar nunca, un 20 % menos. Bajar sólo se puede por una "
+         "tesoros baja siempre que puede: 189 pantallas usando el túnel contra "
+         "238 sin bajar nunca, un 21 % menos. Bajar sólo se puede por una "
          "escalera, y las escaleras están medidas sobre las 255 capturas: son "
          "las 63 escenas de tipo 0 y 1, y ni una más.</p>"),
         ("La liana no está dibujada en ninguna parte",
@@ -230,8 +230,8 @@ HALLAZGOS = {
          "on the surface or down in the tunnel. The left-hand routine is "
          "symmetrical.</p>"
          "<p>That's why the shortcut is worth so much, and why the route that "
-         "collects all 32 treasures goes underground whenever it can: 190 "
-         "screens using the tunnel against 238 never going down, 20 % fewer. "
+         "collects all 32 treasures goes underground whenever it can: 189 "
+         "screens using the tunnel against 238 never going down, 21 % fewer. "
          "You can only go down by a ladder, and the ladders are measured over "
          "the 255 captures: they're the 63 scenes of types 0 and 1, and not "
          "one more.</p>"),

diff --git a/docs/OPEN-QUESTIONS.md b/docs/OPEN-QUESTIONS.md
@@ -43,7 +43,7 @@ from the 32 bits of treasures taken (0xE21D-0xE220) no counter of how many you a
 carrying turns up. If there is an
 ending for having collected them all, it doesn't come from there.
 
-## The 190-screen route is a calculation, not a game
+## The 189-screen route is a calculation, not a game
 
 The number is soundly made —it comes from walking the ring of 255 scenes with the
 cartridge's own screen-change rules, counting the tunnel shortcut— but it measures
@@ -55,7 +55,7 @@ up a ladder, which are counted as free. It is not a recorded game.
 Does it fit the clock, though? That sum can be done with the cartridge's own
 numbers. The player walks at 200/256 of a pixel per frame (0x88ED) and a screen
 runs from the entry X (0x19) to the border (0xE7): 206 pixels, **264 frames, 4.4
-seconds** at 60 Hz. The 190 crossings add up to 50,099 frames —**13.9 minutes of
+seconds** at 60 Hz. The 189 crossings add up to 49,896 frames —**13.9 minutes of
 game time**— and the 20:00 clock is 72,000: the route spends 70 % of the clock
 just walking and leaves about six minutes for everything else. It is still the
 model's arithmetic, not a game; but the model fits inside the clock.

diff --git a/docs/es/PREGUNTAS-ABIERTAS.md b/docs/es/PREGUNTAS-ABIERTAS.md
@@ -44,7 +44,7 @@ bits de tesoros cogidos (0xE21D-0xE220) no aparece ningún contador de cuántos
 llevas. Si hay final por
 haberlos recogido todos, no sale de ahí.
 
-## La ruta de 190 pantallas es un cálculo, no una partida
+## La ruta de 189 pantallas es un cálculo, no una partida
 
 El número está bien hecho —sale de recorrer el anillo de 255 escenas con las
 reglas de cambio de pantalla del propio cartucho, contando el atajo del
@@ -56,7 +56,7 @@ subir una escalera, que se cuentan como gratis. No es una partida grabada.
 ¿Y cabe en el reloj? Esa cuenta sí se puede hacer con los números del propio
 cartucho. El muñeco anda a 200/256 de píxel por cuadro (0x88ED) y una pantalla
 va de la X de entrada (0x19) al borde (0xE7): 206 píxeles, **264 cuadros, 4,4
-segundos** a 60 Hz. Los 190 cruces suman 50.099 cuadros —**13,9 minutos de
+segundos** a 60 Hz. Los 189 cruces suman 49.896 cuadros —**13,9 minutos de
 juego**— y el reloj de 20:00 son 72.000: la ruta gasta el 70 % del reloj solo
 en andar y deja unos seis minutos para todo lo demás. Sigue siendo aritmética
 del modelo, no una partida; pero el modelo cabe en el reloj.
